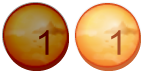
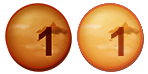
working on assets in different levels

diff --git a/build/common/pages/puzzles/xyflyer.js b/build/common/pages/puzzles/xyflyer.js
@@ -250,18 +250,50 @@ soma.views({
         }
       }
     },
+    currentStage: function() {
+      var level, stage, _i, _j, _len, _len1, _ref, _ref1, _ref2;
+      if (!((_ref = this.level) != null ? _ref.id : void 0)) {
+        return 0;
+      }
+      _ref1 = this.worlds[this.currentWorld()].stages;
+      for (_i = 0, _len = _ref1.length; _i < _len; _i++) {
+        stage = _ref1[_i];
+        _ref2 = stage.levels;
+        for (_j = 0, _len1 = _ref2.length; _j < _len1; _j++) {
+          level = _ref2[_j];
+          if (level.id === this.level.id) {
+            return stage;
+          }
+        }
+      }
+    },
     load: function() {
-      var asset, index, _ref,
+      var asset, assets, index, _ref, _ref1, _ref2,
         _this = this;
       this.dynamicContent.html(this.originalHTML);
-      _ref = this.level.assets || this.worlds[this.currentWorld()].assets || {
+      assets = {
         person: 1,
         island: 1,
         plane: 1,
         background: 1
       };
+      _ref = this.worlds[this.currentWorld()].assets || {};
       for (asset in _ref) {
         index = _ref[asset];
+        assets[asset] = index;
+      }
+      _ref1 = this.currentStage().assets || {};
+      for (asset in _ref1) {
+        index = _ref1[asset];
+        assets[asset] = index;
+      }
+      _ref2 = this.level.assets || {};
+      for (asset in _ref2) {
+        index = _ref2[asset];
+        assets[asset] = index;
+      }
+      for (asset in assets) {
+        index = assets[asset];
         if (asset === 'background') {
           this.dynamicContent.css('backgroundImage', this.dynamicContent.css('backgroundImage').replace(/\d+\./, "" + index + "."));
         } else {

diff --git a/apps/xyflyer/web/objects/equations.js b/apps/xyflyer/web/objects/equations.js
@@ -71,7 +71,7 @@ equations.Equations = (function() {
   };
 
   Equations.prototype.addComponent = function(equationFragment) {
-    var equationComponent,
+    var equationComponent, firstFragmentOffset, fragmentsWidth, lastFragmentOffset, shift,
       _this = this;
     equationComponent = new EquationComponent({
       gameArea: this.gameArea,
@@ -85,6 +85,13 @@ equations.Equations = (function() {
     });
     equationComponent.appendTo(this.possibleFragments);
     this.equationComponents.push(equationComponent);
+    firstFragmentOffset = this.equationComponents[0].elementContainer.offset();
+    lastFragmentOffset = this.equationComponents[this.equationComponents.length - 1].elementContainer.offset();
+    fragmentsWidth = lastFragmentOffset.left + lastFragmentOffset.width - firstFragmentOffset.left;
+    shift = (this.possibleFragments.width() - fragmentsWidth) / 2;
+    this.equationComponents[0].elementContainer.css({
+      marginLeft: shift
+    });
     return equationComponent;
   };
 

diff --git a/build/common/pages/puzzles/lib/xyflyer_objects/equations.js b/build/common/pages/puzzles/lib/xyflyer_objects/equations.js
@@ -71,7 +71,7 @@ equations.Equations = (function() {
   };
 
   Equations.prototype.addComponent = function(equationFragment) {
-    var equationComponent,
+    var equationComponent, firstFragmentOffset, fragmentsWidth, lastFragmentOffset, shift,
       _this = this;
     equationComponent = new EquationComponent({
       gameArea: this.gameArea,
@@ -85,6 +85,13 @@ equations.Equations = (function() {
     });
     equationComponent.appendTo(this.possibleFragments);
     this.equationComponents.push(equationComponent);
+    firstFragmentOffset = this.equationComponents[0].elementContainer.offset();
+    lastFragmentOffset = this.equationComponents[this.equationComponents.length - 1].elementContainer.offset();
+    fragmentsWidth = lastFragmentOffset.left + lastFragmentOffset.width - firstFragmentOffset.left;
+    shift = (this.possibleFragments.width() - fragmentsWidth) / 2;
+    this.equationComponents[0].elementContainer.css({
+      marginLeft: shift
+    });
     return equationComponent;
   };
 

diff --git a/src/client/css/puzzles/xyflyer.less b/src/client/css/puzzles/xyflyer.less
@@ -228,7 +228,7 @@ body {
             .possible_fragments {
                 margin-top: 30px;
                 padding: 6px;
-    /*            overflow: hidden;*/
+                text-align: center;
                 position: relative;
             
                 p {
@@ -308,7 +308,10 @@ body {
         
         .hints {
             padding: 60px 0 0 6px;
-                
+            
+            h4 {
+                text-align: center;
+            }    
             .drag_this, .drop_here, .launch_hint {
                 position: absolute;
                 top: -1000px;
@@ -405,8 +408,10 @@ body {
                 width: 72px;
                 height: 74px;
                 overflow: hidden;
-                &.selected img {
-                    margin-left: -72px;
+                &:hover, &.selected {
+                    img {
+                        margin-left: -72px;
+                    }
                 }
             }
         }

diff --git a/apps/xyflyer/web/objects/levels.js b/apps/xyflyer/web/objects/levels.js
@@ -1455,6 +1455,10 @@ levels.WORLDS = [
       }
     ]
   }, {
+    assets: {
+      background: 2,
+      person: 2
+    },
     stages: [
       {
         name: 'Shift And Slope',
@@ -3416,7 +3420,7 @@ levels.WORLDS = [
     assets: {
       background: 3,
       island: 3,
-      person: 2
+      person: 1
     },
     stages: [
       {
@@ -5735,6 +5739,11 @@ levels.WORLDS = [
       }
     ]
   }, {
+    assets: {
+      background: 4,
+      island: 1,
+      person: 2
+    },
     stages: [
       {
         name: 'Curves',
@@ -8142,6 +8151,11 @@ levels.WORLDS = [
       }
     ]
   }, {
+    assets: {
+      background: 5,
+      island: 4,
+      person: 3
+    },
     stages: [
       {
         name: 'Multiple Curves',
@@ -9456,6 +9470,9 @@ levels.WORLDS = [
         ]
       }, {
         name: 'Crazy Curves',
+        assets: {
+          person: 4
+        },
         levels: [
           {
             id: 1365008751620,

diff --git a/build/common/pages/puzzles/lib/xyflyer_objects/levels.js b/build/common/pages/puzzles/lib/xyflyer_objects/levels.js
@@ -1455,6 +1455,10 @@ levels.WORLDS = [
       }
     ]
   }, {
+    assets: {
+      background: 2,
+      person: 2
+    },
     stages: [
       {
         name: 'Shift And Slope',
@@ -3416,7 +3420,7 @@ levels.WORLDS = [
     assets: {
       background: 3,
       island: 3,
-      person: 2
+      person: 1
     },
     stages: [
       {
@@ -5735,6 +5739,11 @@ levels.WORLDS = [
       }
     ]
   }, {
+    assets: {
+      background: 4,
+      island: 1,
+      person: 2
+    },
     stages: [
       {
         name: 'Curves',
@@ -8142,6 +8151,11 @@ levels.WORLDS = [
       }
     ]
   }, {
+    assets: {
+      background: 5,
+      island: 4,
+      person: 3
+    },
     stages: [
       {
         name: 'Multiple Curves',
@@ -9456,6 +9470,9 @@ levels.WORLDS = [
         ]
       }, {
         name: 'Crazy Curves',
+        assets: {
+          person: 4
+        },
         levels: [
           {
             id: 1365008751620,

diff --git a/build/client/css/puzzles/xyflyer.css b/build/client/css/puzzles/xyflyer.css
@@ -228,8 +228,7 @@ body {
 .xyflyer .dynamic_content .equation_area .possible_fragments {
   margin-top: 30px;
   padding: 6px;
-  /*            overflow: hidden;*/
-
+  text-align: center;
   position: relative;
 }
 .xyflyer .dynamic_content .equation_area .possible_fragments p {
@@ -312,6 +311,9 @@ body {
 }
 .xyflyer .dynamic_content .hints {
   padding: 60px 0 0 6px;
+}
+.xyflyer .dynamic_content .hints h4 {
+  text-align: center;
 }
 .xyflyer .dynamic_content .hints .drag_this,
 .xyflyer .dynamic_content .hints .drop_here,
@@ -411,6 +413,7 @@ body {
   height: 74px;
   overflow: hidden;
 }
+.xyflyer .level_selector .world_links .world_link:hover img,
 .xyflyer .level_selector .world_links .world_link.selected img {
   margin-left: -72px;
 }
